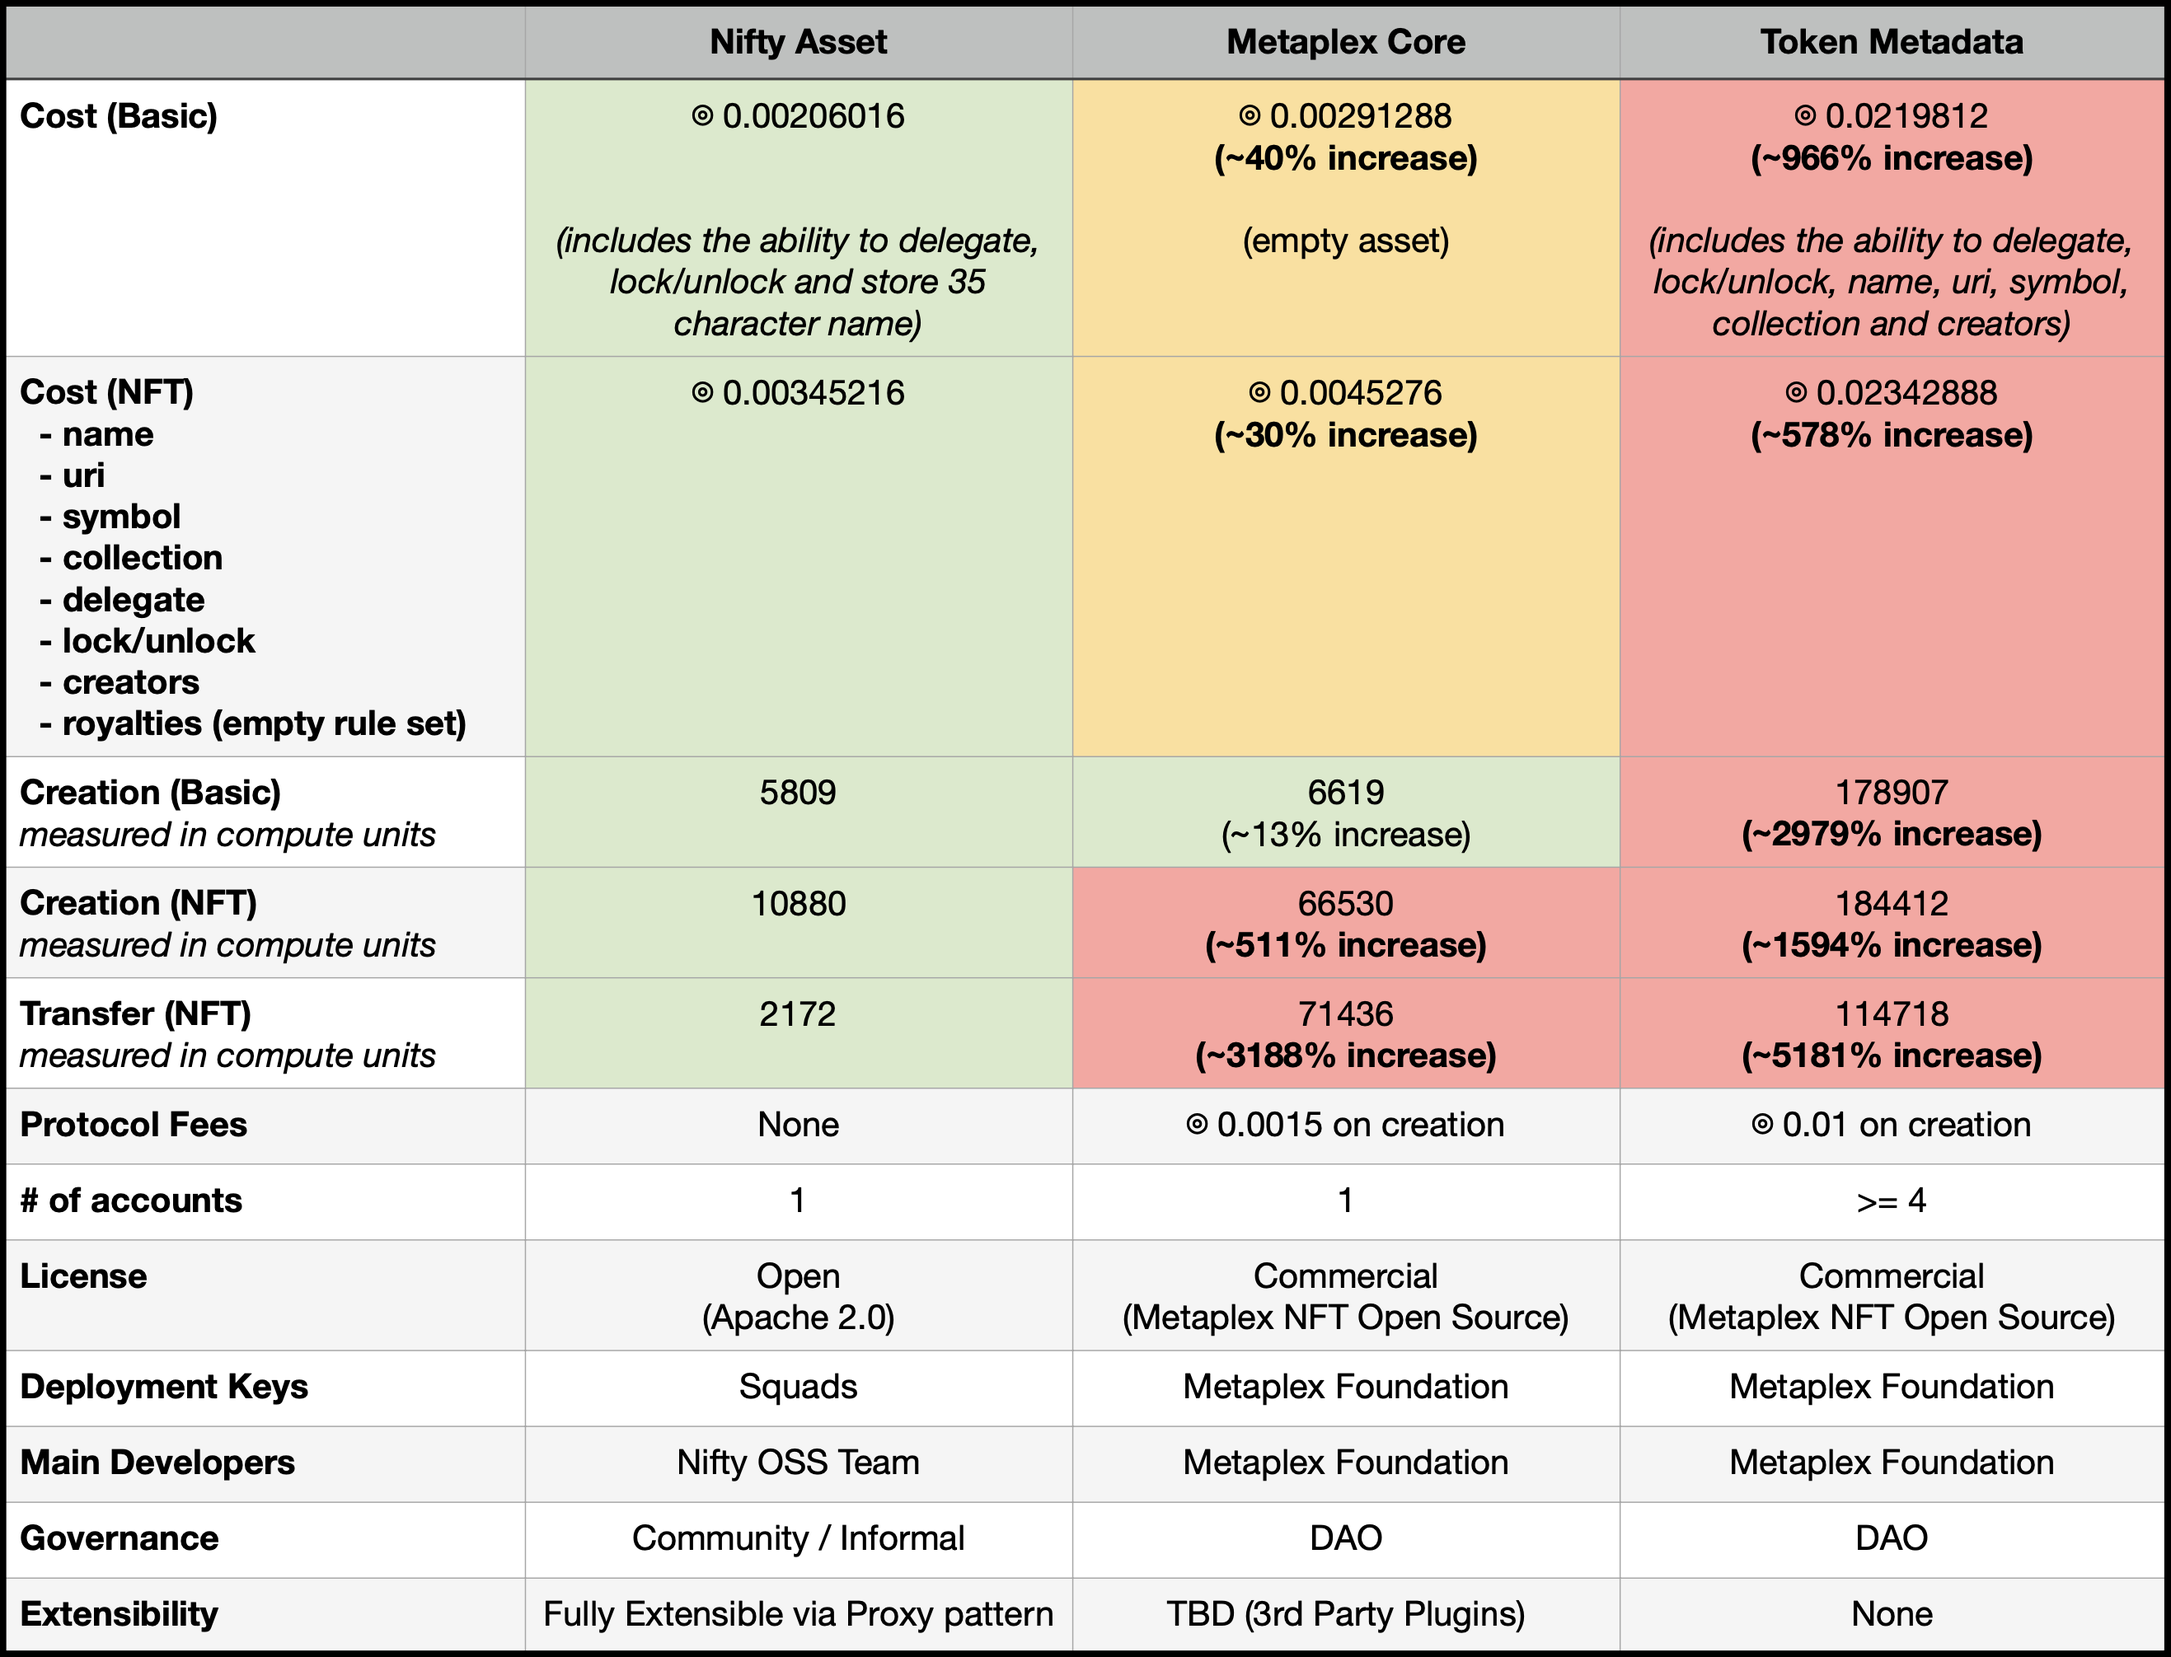
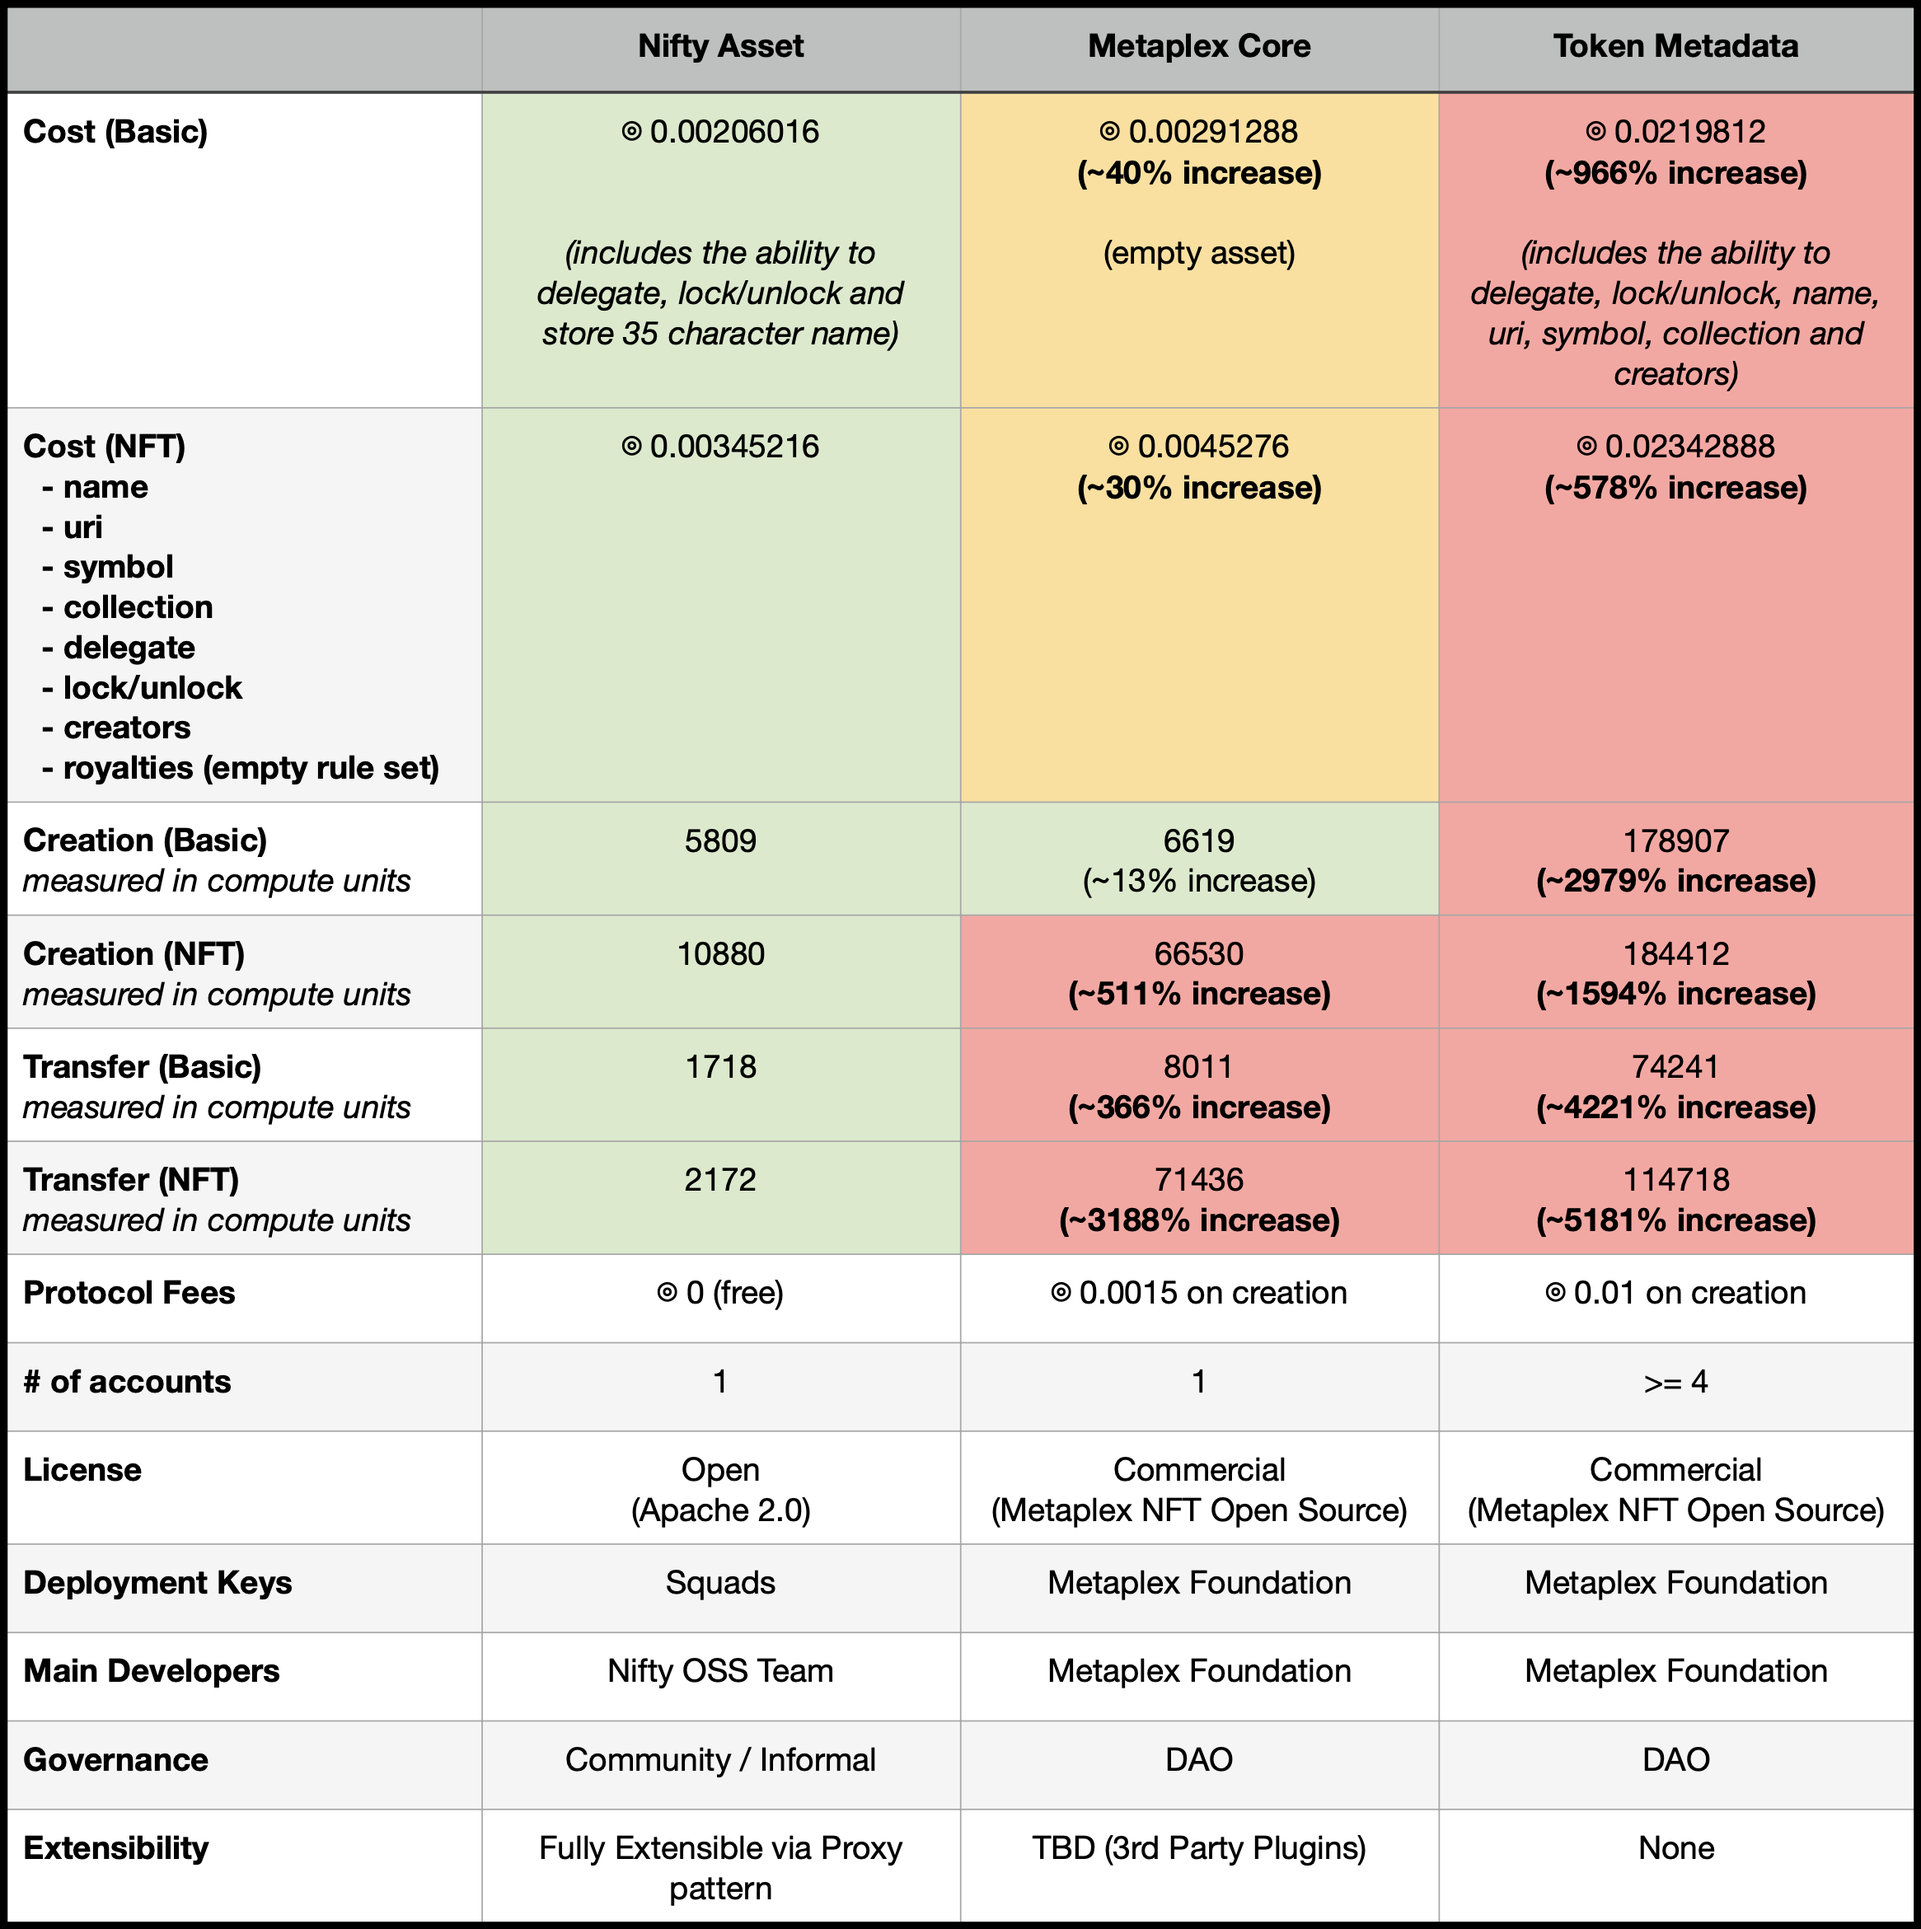
Small updates

diff --git a/src/pages/standard.md b/src/pages/standard.md
@@ -3,7 +3,7 @@
         <img
         src={require('/img/standard/nifty-asset.jpg').default}
         alt="Nifty Asset"
-        width="300"
+        width="200"
         />
     </figure>
     <h1>Nifty Asset: a lightweight non-fungible standard</h1>
@@ -14,7 +14,7 @@ The choice of non-fungible (NFT) protocol matters. It lays the foundations for f
 
 Even though Nifty is not the only NFT standard in the Solana space, we believe it is the way forward for NFTs, enabling a more open and fair Solana and also a solid technological investment for any project contemplating alternatives.
 
-Nifty Asset has been carefully designed to have minimal footprint, in terms of both cost and compute units consumption. It is a lightweight protocol that favours composibility and provides a fully extensible architecture. Nifty Asset implements the [⎘proxy pattern](./blog/proxy-pattern), so developers can customize every aspect of the protocol without requiring direct changes to it.
+Nifty Asset has been carefully designed to have minimal footprint, in terms of both cost and compute units consumption. It is a lightweight protocol that favours composibility and provides a fully extensible architecture. It follows the [⎘proxy pattern](./blog/proxy-pattern) to provide developers a program interface to customize every aspect of the protocol without requiring direct changes to it.
 
 Choice is good and it is up to the community to decide which solutions are most appropriate for their use-case. The table below summarises how Nifty Asset compares to other popular metadata standards on Solana.
 
@@ -27,7 +27,7 @@ Choice is good and it is up to the community to decide which solutions are most 
     </figure>
 </p>
 
-The values on the table have been determined by executing the equivalent transactions on-chain using the same asset. On the NFT case, it shows the costs using a standard configuration of an existing collection item. In all cases, the costs do not include the cost of the asset representing the collection. Protocols fees are already included on the cost values.
+The values on the table have been determined by executing the equivalent transactions on-chain using the same asset configuration. On the NFT case, it shows the costs using a standard configuration of an existing collection item. In all cases, the costs do not include the cost of creating the asset representing the collection; protocols fees are already included on the cost values.
 
 The costs for rent are fully refundable in the case Nifty Asset, which does not charge any protocol fees. In the case of Metaplex assets, the protocol fees are non-refundable and charged at the point of creation.
 
